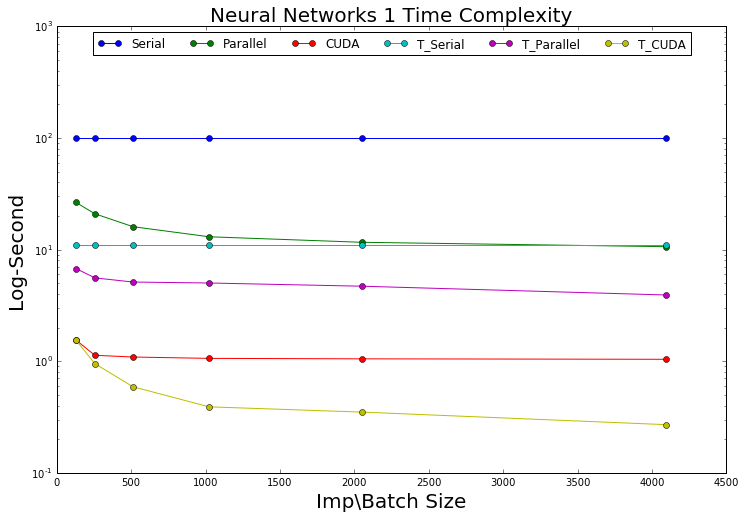
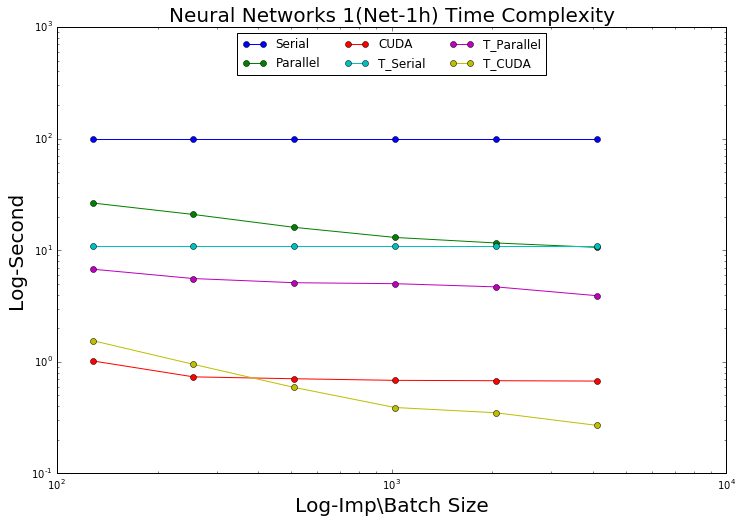
report result.tex and result images

diff --git a/report/tex/results.tex b/report/tex/results.tex
@@ -7,4 +7,31 @@ Provide graphs for speedup with increasing problem size \\
 Analyze speedup with number of threads/cores used \\
 Analyze the level of parallelization obtained \\
 Analyze performance bottlenecks \\
-Do overall analysis and compare obtained results with your expectations
+Do overall analysis and compare obtained results with your expectations\\
+
+As described in previous sections, we compare our implementations with state of the art deep learning library, Theano, in three different parallelizations (Serial/Pthreads/Cuda-C). All experiments are done under the same network structures with MNIST datasets.
+
+\begin{figure}[ht]
+%\vskip 0.2in
+\begin{center}
+\centerline{\includegraphics[width=\columnwidth]{../../slide/nn1_time.png}}
+\caption{Computation time for Net-1h}
+\label{fig:nn1_time}
+\end{center}
+\vskip -0.4in
+\end{figure}
+
+Figure \ref{fig:nn1_time} clearly shows distinct characteristics between serial and parallel computation as well as CPU and GPU based computation. First, the serial learning time (Blue curve, Light blue curve) is almost constant on the varying mini batch size. It is because more batch size means linearly increased computation time in the serial domain. On the other hand, the parallel learning time (Green curve) shows exponentially decreased training time due to multithreads. This behavior is shown commonly in parallel computation based on Theano (T-Parallel). In case of GPU based computation, the overall performance is significantly improved because GPU usually have much more cores than CPU. As a result, \textbf{Why cuda doesn't show exponentially decreased pattern?}.\\
+The faster computation by the parallelization is able to be captured by seeing GFLOPS(Giga FLoating point OPerations per Second). Figure \ref{fig:nn1_gflops} shows that parallelization provide much larger number of floating point operations than serial, thus, single core computation.   
+\begin{figure}[ht]
+%\vskip 0.2in
+\begin{center}
+\centerline{\includegraphics[width=\columnwidth]{../../slide/nn1_gflops.png}}
+\caption{GFLOPS for Net-1h}
+\label{fig:nn1_gflops}
+\end{center}
+\vskip -0.4in
+\end{figure}
+
+
+

diff --git a/slide/methods.tex b/slide/methods.tex
@@ -3,11 +3,21 @@
         \begin{frame}{PThreads - POSIX Threads}
             \begin{itemize}
                 \item {
-                    \textbf{Low level multithreading API} - Threads are created and each task is assigned to each thread in parallel.
+                    \textbf{POSIX} : Portable Operating System Interface for UNIX
                     }
-                \item {
-                    \textbf{TODO} - ABOUT Basic functions to show how Pthread is used in our project
-                    }
+                \item { Pthreads: The POSIX threading interface}
+                \begin{itemize}
+                \item {Thread implementations adhering to the POSIX standard}
+                \item {System calls to create and synchronize threads}
+                \item {Should be relatively uniform across UNIX-like OS platforms }
+                \end{itemize}
+             \item {Pthreads supports for }
+             \begin{itemize}
+             \item {Creating parallelism}
+             \item {Synchronization}
+             \end{itemize}
+             \item {No explicit support for communication, because shared 
+memory is implicit.}
             \end{itemize}
         \end{frame}
         

diff --git a/slide/result.tex b/slide/result.tex
@@ -1,7 +1,10 @@
 \section{Results and analysis}
+\begin{frame}<beamer>{Outline}
+    \tableofcontents[currentsection,currentsubsection]
+  \end{frame}
  \begin{frame}{Results}
      \begin{itemize}
-         \item{ \textbf{Neural Networks 1}
+         \item{ \textbf{Neural Networks 1 (Net-1h)}
          }
          \item { Accuracy is 97.78\%} 
      \end{itemize}
@@ -14,7 +17,7 @@
  
 \begin{frame}{Results (contd.)}
      \begin{itemize}
-         \item{ \textbf{Neural Networks 2}
+         \item{ \textbf{Neural Networks 2 (Net-2h)}
          }
          \item { Accuracy is ???\%} 
      \end{itemize}
@@ -27,7 +30,7 @@
 
 \begin{frame}{Results (contd.)}
      \begin{itemize}
-         \item{ \textbf{Neural Networks 1 - GFLOPS}
+         \item{ \textbf{Neural Networks 1 (Net-1h) - GFLOPS}
          }
      \end{itemize}
      
@@ -39,7 +42,7 @@
 
 \begin{frame}{Results (contd.)}
      \begin{itemize}
-         \item{ \textbf{Neural Networks 2 - GFLOPS}
+         \item{ \textbf{Neural Networks 2 (Net-2h)- GFLOPS}
          }
      \end{itemize}
      
@@ -59,5 +62,3 @@
 
 
 
-
-\end{document}

diff --git a/slide/experiment.tex b/slide/experiment.tex
@@ -1,4 +1,7 @@
 \section{Experiments}
+\begin{frame}<beamer>{Outline}
+    \tableofcontents[currentsection,currentsubsection]
+  \end{frame}
     \begin{frame}{MNIST dataset}
       \begin{itemize}
       \item {MNIST, handwritten digits, has a training set of 60,000 examples, and a test set of 10,000 examples.}

diff --git a/slide/minibatch.tex b/slide/minibatch.tex
@@ -1,4 +1,7 @@
 \section{Why mini batch?}
+\begin{frame}<beamer>{Outline}
+    \tableofcontents[currentsection,currentsubsection]
+  \end{frame}
 
 \begin{frame}{Gradient Descent}
 

diff --git a/slide/main.tex b/slide/main.tex
@@ -121,3 +121,4 @@
   \input{result.tex}
 
 
+\end{document}
